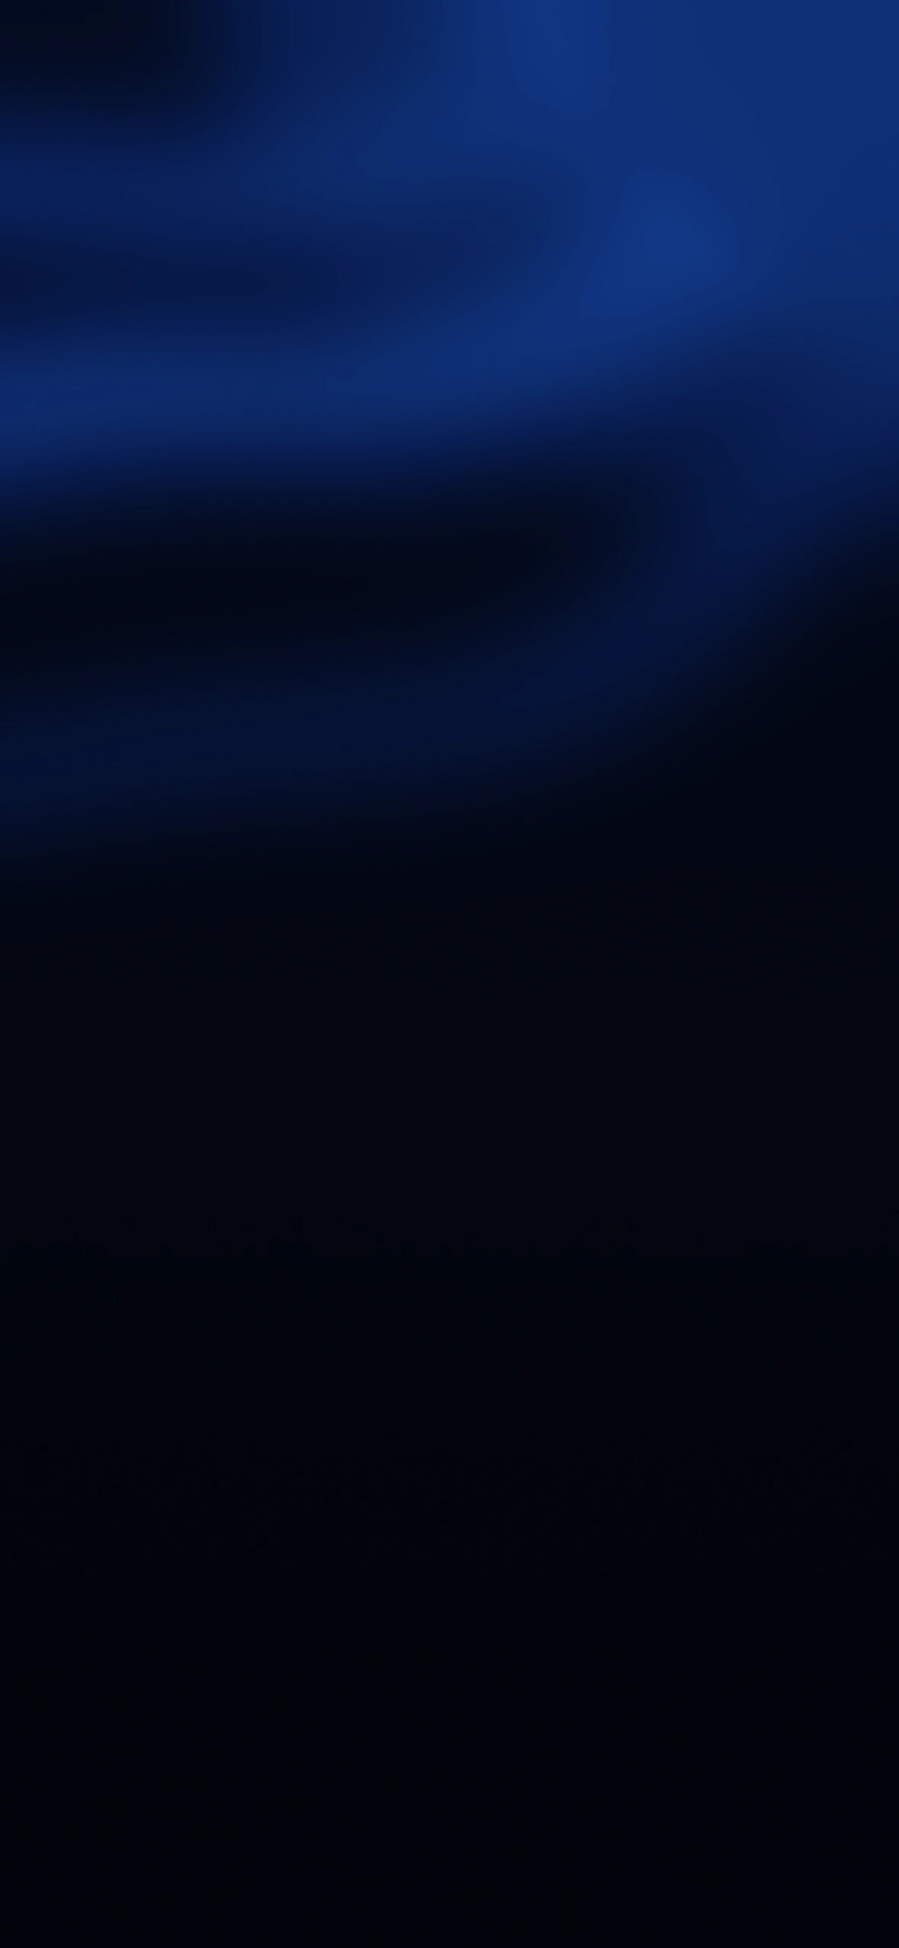
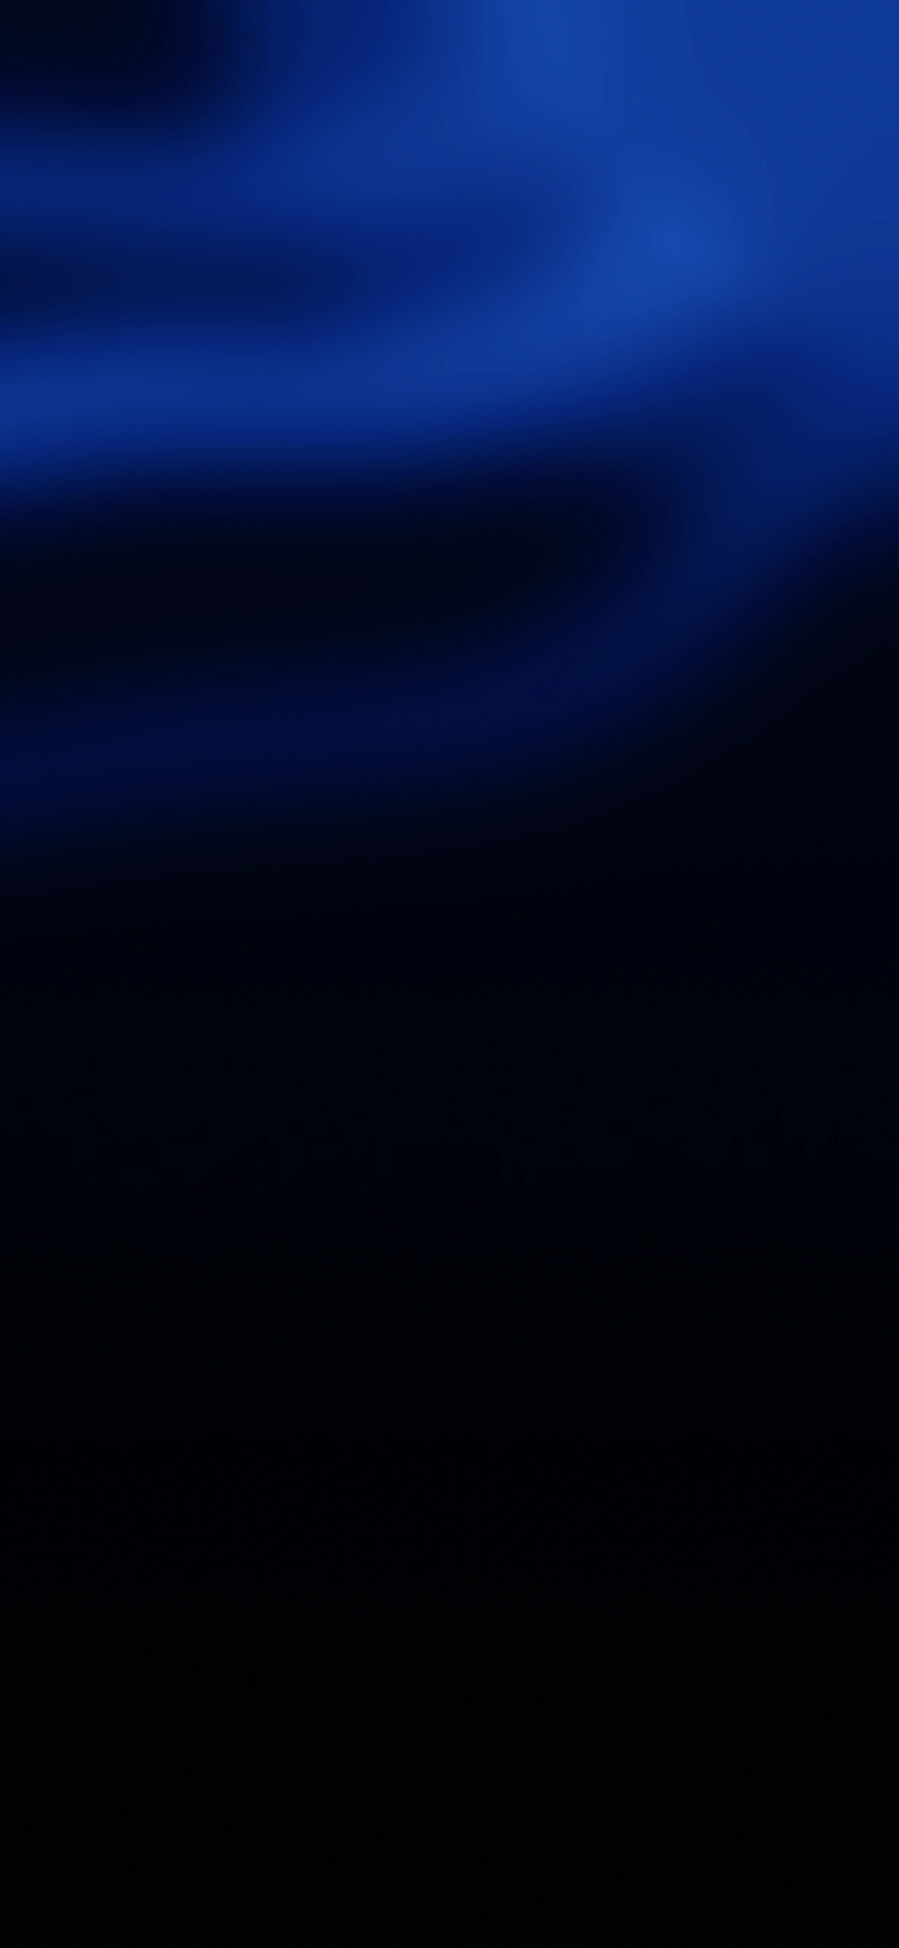
Moons: Sapphire Blue Moon, ladder picks baked; lab skies drawn in true colour
- Blue Moon recoloured to the Sapphire take (deeper navy sky, jewel-blue moon), re-baked with its icon.
- Ladder and rare list (Blue Moon only) from the moon studio baked into the app.
- Moon lab: a Blue Moon set of five takes in the test moons, ?set= opens one set, and skies and orbs copy
  out with readPixels (drawImage swapped red and blue on Linux Chrome, turning blue skies orange).
- Pending UI polish across tabs, strip page, week dots, moons cover and You.

Changed region(s): [[0.0, 0.0, 1.0, 0.2473]]

diff --git a/src/features/you/loc-profile.tsx b/src/features/you/loc-profile.tsx
@@ -1,4 +1,4 @@
-import { useCallback, useEffect, useMemo, useRef, useState } from 'react';
+import { useMemo } from 'react';
 import { Pressable, StyleSheet, View } from 'react-native';
 import { SymbolView } from 'expo-symbols';
 
@@ -7,7 +7,6 @@ import { Text } from '@/components/text';
 import * as haptic from '@/lib/haptics';
 import { Nocturne, NUMBER_FONT, Space, Type } from '@/theme';
 
-import { LocBubble } from '@/features/home/loc-bubble';
 import LocStage from '@/features/home/loc-stage';
 import { morningsLabel } from '@/features/home/week';
 
@@ -17,50 +16,16 @@ const CANVAS = Math.round(SIZE * 1.2);
 /** The circle's inside height: his ears get the room above him. */
 const LOC_H = SIZE - 8;
 
-/** Where his bubble's tail lands, up from the circle's bottom: just over his ears. */
-const BUBBLE_AT = Math.round(SIZE * 0.68);
-
 /** Home's mornings pill's height. */
 const PILL = 36;
-
-/** His one line here, the best of Home's poke lines (loc-lines.ts). */
-const LINE = 'There’s a reason I’m not allowed at airports.';
-
-/** How long a line stays up, as on Home. */
-const LINE_MS = 3200;
 
 /**
  * The top of the You tab, like CapWords' profile (user reference, 2026-10-14): Loc as the
  * profile picture, the real Loc from Home (loc-stage.tsx) peeking up from the circle's bottom,
- * and your mornings in Home's pill under him. He says `LINE` when the tab opens and when he's poked; it fades like his lines on Home. A long press on the
- * pill opens beta diagnostics.
+ * and your mornings in Home's pill under him. He doesn't talk here: no lines in Settings (user,
+ * 2026-11-02). A poke still gets his own reaction. A long press on the pill opens beta diagnostics.
  */
-export function LocProfile({ mornings, onLongPress, sayAfter = 0 }: { mornings: number; onLongPress: () => void; sayAfter?: number }) {
-  const [said, setSaid] = useState<number | null>(sayAfter ? null : 0);
-  // On a page that slides up (Settings), he speaks once he's peeked up (his "hello"), not mid-slide;
-  // `sayAfter` is only the fallback if he never says it.
-  const spoke = useRef(!sayAfter);
-  const speak = useCallback(() => {
-    if (spoke.current) return;
-    spoke.current = true;
-    setSaid(0);
-  }, []);
-  useEffect(() => {
-    if (!sayAfter) return;
-    const t = setTimeout(speak, sayAfter);
-    return () => clearTimeout(t);
-  }, [sayAfter, speak]);
-  useEffect(() => {
-    if (said === null) return;
-    const t = setTimeout(() => setSaid(null), LINE_MS);
-    return () => clearTimeout(t);
-  }, [said]);
-  const again = () => setSaid((n) => (n ?? 0) + 1000);
-  // A poke on him (handled in his webview) says it again; hiding doesn't.
-  const onCue = useCallback((cue: 'poke' | 'angry' | 'hello' | 'hide' | 'ultra') => {
-    if (cue === 'poke' || cue === 'angry') setSaid((n) => (n ?? 0) + 1000);
-    if (cue === 'hello') speak();
-  }, [speak]);
+export function LocProfile({ mornings, onLongPress }: { mornings: number; onLongPress: () => void }) {
   const dom = useMemo(
     () => ({
       style: { width: CANVAS, height: LOC_H, backgroundColor: 'transparent' },
@@ -73,23 +38,15 @@ export function LocProfile({ mornings, onLongPress, sayAfter = 0 }: { mornings: 
   return (
     <View style={styles.wrap}>
       <Pressable
-        onPress={() => {
-          haptic.tap();
-          again();
-        }}
-        accessibilityRole="button"
-        accessibilityLabel={`Loc says: ${LINE}`}
-        accessibilityHint="Says it again"
+        onPress={() => haptic.tap()}
+        accessibilityRole="image"
+        accessibilityLabel="Loc"
         style={styles.avatar}
       >
         <View style={[styles.loc, { width: CANVAS, height: LOC_H }]}>
-          <LocStage mood="awake" share={0.9} present onCue={onCue} dom={dom} />
+          <LocStage mood="awake" share={0.9} present dom={dom} />
         </View>
       </Pressable>
-      {/* Floats over the circle's empty top and the space above it, so it never moves the page. */}
-      <View style={styles.speech} pointerEvents="box-none">
-        {said !== null ? <LocBubble key={said} line={LINE} onDismiss={() => setSaid(null)} /> : null}
-      </View>
       <Pressable
         onLongPress={onLongPress}
         delayLongPress={800}
@@ -106,10 +63,7 @@ export function LocProfile({ mornings, onLongPress, sayAfter = 0 }: { mornings: 
 }
 
 const styles = StyleSheet.create({
-  // A little room up top, so a two-line bubble clears the status bar.
   wrap: { alignItems: 'center', paddingTop: Space.l },
-  // Its tail's tip is the bottom edge, placed just over his head.
-  speech: { position: 'absolute', left: 0, right: 0, bottom: PILL + Space.l + BUBBLE_AT, alignItems: 'center' },
   // A light ring round a frosted circle, like the photo's white border. No shadow, no glow.
   avatar: {
     width: SIZE,

diff --git a/src/features/moons/moon-data.ts b/src/features/moons/moon-data.ts
@@ -1,7 +1,7 @@
 // Generated by tools/moon-lab/bake.py from tools/moon-lab/moons.json (the moon studio, `npm run moon-studio`). Do not edit by hand.
 import type { MoonDef } from './moon-types';
 
-export const LADDER: (string | null)[] = ["dawn", "harvest", "twilight", "full", "ember", "matcha", "blood", "deepsea", "prism", "eclipse", "bluehour", "strawberry", "micromoon"];
+export const LADDER: (string | null)[] = ["deepsea", "harvest", "full", "twilight", "ember", "noir", "blood", "lagoon", "prism", "eclipse", "bluehour", "strawberry", "micromoon"];
 
 export const MOONS: MoonDef[] = [
   { "id": "moonlight", "name": "Moonlight", "kind": "today", "tag": "you start with this", "glow": "#7090D8", "glowOpacity": 1, "scale": 1, "cx": 0.5, "orb": ["#040A1F", "#123C8C", "#5E9BEA", "#E9F3FF"], "skyColors": ["#05060A", "#1C2A55", "#2C3F78", "#2C3F78"] },
@@ -10,7 +10,7 @@ export const MOONS: MoonDef[] = [
   { "id": "supermoon", "name": "Supermoon", "kind": "real", "tag": "closest to Earth", "glow": "#D8CDBE", "glowOpacity": 1, "scale": 1.25, "cx": 0.5, "orb": ["#0E0D0B", "#4E4840", "#D8CDBE", "#FFFCF6"], "skyColors": ["#050505", "#1F1C19", "#4E4840", "#4E4840"], sky: require('@/assets/moons/supermoon-sky.webp'), moon: require('@/assets/moons/supermoon-moon.webp') },
   { "id": "micromoon", "name": "Micromoon", "kind": "real", "tag": "farthest from Earth", "glow": "#8E9AB4", "glowOpacity": 0.6, "scale": 0.72, "cx": 0.5, "orb": ["#04070D", "#1E2840", "#8E9AB4", "#F2F4F6"], "skyColors": ["#020306", "#0A0F1C", "#1E2840", "#1E2840"], sky: require('@/assets/moons/micromoon-sky.webp'), moon: require('@/assets/moons/micromoon-moon.webp') },
   { "id": "blood", "name": "Blood Moon", "kind": "real", "tag": "total lunar eclipse", "glow": "#B3342C", "glowOpacity": 1, "scale": 1, "cx": 0.5, "orb": ["#110001", "#3A0608", "#B3342C", "#D89891"], "skyColors": ["#050203", "#260002", "#3A0608", "#3A0608"], sky: require('@/assets/moons/blood-sky.webp'), moon: require('@/assets/moons/blood-moon.webp') },
-  { "id": "bluemoon", "name": "Blue Moon", "kind": "real", "tag": "once in a blue moon", "glow": "#2F6BEA", "glowOpacity": 1, "scale": 1, "cx": 0.5, "orb": ["#030C21", "#123887", "#2F6BEA", "#A5BEEE"], "skyColors": ["#020309", "#071A4A", "#123887", "#123887"], sky: require('@/assets/moons/bluemoon-sky.webp'), moon: require('@/assets/moons/bluemoon-moon.webp') },
+  { "id": "bluemoon", "name": "Blue Moon", "kind": "real", "tag": "once in a blue moon", "glow": "#4D81EB", "glowOpacity": 1, "scale": 1, "cx": 0.5, "orb": ["#01061B", "#07277D", "#4D81EB", "#A4C0F5"], "skyColors": ["#000103", "#020D3B", "#07277D", "#1649AE"], sky: require('@/assets/moons/bluemoon-sky.webp'), moon: require('@/assets/moons/bluemoon-moon.webp') },
   { "id": "snow", "name": "Snow Moon", "kind": "real", "tag": "February", "glow": "#C9CED6", "glowOpacity": 1, "scale": 1, "cx": 0.5, "orb": ["#0E0E11", "#4C505A", "#C9CED6", "#FAFBFC"], "skyColors": ["#050506", "#1E2026", "#4C505A", "#4C505A"], sky: require('@/assets/moons/snow-sky.webp'), moon: require('@/assets/moons/snow-moon.webp') },
   { "id": "strawberry", "name": "Strawberry Moon", "kind": "real", "tag": "June", "glow": "#E07CA6", "glowOpacity": 1, "scale": 1, "cx": 0.5, "orb": ["#13060D", "#6C2B4A", "#E07CA6", "#FBDEE8"], "skyColors": ["#060305", "#2B0E1D", "#6C2B4A", "#6C2B4A"], sky: require('@/assets/moons/strawberry-sky.webp'), moon: require('@/assets/moons/strawberry-moon.webp') },
   { "id": "flower", "name": "Flower Moon", "kind": "real", "tag": "May", "glow": "#9D8DE2", "glowOpacity": 1, "scale": 1, "cx": 0.5, "orb": ["#0D0A18", "#4C3F84", "#9D8DE2", "#EEE8FC"], "skyColors": ["#050409", "#1D1636", "#4C3F84", "#4C3F84"], sky: require('@/assets/moons/flower-sky.webp'), moon: require('@/assets/moons/flower-moon.webp') },

diff --git a/tools/moon-lab/index.html b/tools/moon-lab/index.html
@@ -432,6 +432,26 @@ function addSkies(root) {
     skies.push({ canvas, ctx: canvas.getContext('2d'), colours: skyColours(m) });
   });
 }
+/**
+ * Copies a shader's frame into a 2D canvas (same as copyOut in tools/moon-studio/render.js). Not with drawImage:
+ * on the user's Linux Chrome drawImage of a WebGL canvas swaps red and blue, so blue skies came out orange
+ * (2026-11-02). readPixels is always RGBA, bottom row first, premultiplied: flip it, and unpremultiply for alpha.
+ */
+function copyOut(g, ctx, alpha) {
+  const { gl, canvas } = g, w = canvas.width, h = canvas.height;
+  if (!g.buf || g.buf.length !== w * h * 4) { g.buf = new Uint8Array(w * h * 4); g.img = new ImageData(w, h); }
+  gl.readPixels(0, 0, w, h, gl.RGBA, gl.UNSIGNED_BYTE, g.buf);
+  const src = g.buf, dst = g.img.data, row = w * 4;
+  for (let y = 0; y < h; y++) {
+    const from = (h - 1 - y) * row;
+    if (!alpha) { dst.set(src.subarray(from, from + row), y * row); continue; }
+    for (let i = 0, j = y * row; i < row; i += 4, j += 4) {
+      const a = src[from + i + 3], k = a ? 255 / a : 0;
+      dst[j] = src[from + i] * k; dst[j + 1] = src[from + i + 1] * k; dst[j + 2] = src[from + i + 2] * k; dst[j + 3] = a;
+    }
+  }
+  ctx.putImageData(g.img, 0, 0);
+}
 let lastSky = 0;
 function drawSkies(ms) {
   // 30 a second, as the app's sky will run.
@@ -444,7 +464,7 @@ function drawSkies(ms) {
     if (!s.canvas._visible) continue;
     s.colours.forEach((c, i) => gl.uniform3fv(C[i], c));
     gl.drawArrays(gl.TRIANGLES, 0, 3);
-    s.ctx.drawImage(canvas, 0, 0);
+    copyOut(skyGL, s.ctx, false);
   }
 }
 function tick(ms) {
@@ -458,8 +478,7 @@ function tick(ms) {
       o.colours.forEach((c, i) => gl.uniform3fv(C[i], c));
       gl.clearColor(0, 0, 0, 0); gl.clear(gl.COLOR_BUFFER_BIT);
       gl.drawArrays(gl.TRIANGLES, 0, 3);
-      o.ctx.clearRect(0, 0, ORB_PX, ORB_PX);
-      o.ctx.drawImage(canvas, 0, 0);
+      copyOut(shared, o.ctx, true);
     }
   }
   requestAnimationFrame(tick);
@@ -645,7 +664,8 @@ function testCard(m) {
   return fig;
 }
 
-let testSet = 'all';
+// ?show=test&set=bluemoon opens on one test set.
+let testSet = new URLSearchParams(location.search).get('set') ?? 'all';
 function renderTests() {
   if (!TEST.length) return;
   const h = document.createElement('h2');
@@ -654,7 +674,7 @@ function renderTests() {
   const bar = document.createElement('div');
   bar.className = 'bar';
   bar.innerHTML = `<div><div class="seg-label">Set</div><div class="seg" id="test-set" style="flex-wrap:wrap">
-    <button data-v="all" class="on">All</button><button data-v="liked">♥ Liked</button>${TEST_SETS.map((x) => `<button data-v="${x.key}">${x.title}</button>`).join('')}</div></div>`;
+    <button data-v="all"${testSet === 'all' ? ' class="on"' : ''}>All</button><button data-v="liked"${testSet === 'liked' ? ' class="on"' : ''}>♥ Liked</button>${TEST_SETS.map((x) => `<button data-v="${x.key}"${testSet === x.key ? ' class="on"' : ''}>${x.title}</button>`).join('')}</div></div>`;
   const grid = document.createElement('div');
   grid.className = 'grid test-grid';
   TEST.forEach((m) => grid.appendChild(testCard(m)));

diff --git a/src/components/strip-page.tsx b/src/components/strip-page.tsx
@@ -16,7 +16,7 @@ import { useSafeAreaInsets } from 'react-native-safe-area-context';
 import { PANEL_RADIUS, tabStripHeight } from '@/components/app-tabs';
 import { HOME_RISE_MS, MOON_GONE, MOON_SHOWS_FROM, moonSink } from '@/components/night-sky';
 import { homeEntrance, HIDE_FADE_MS } from '@/features/home/entrance';
-import { locAway, tabsShown } from '@/features/moons/moons-cover';
+import { locAway, tabPagesShown, tabsShown } from '@/features/moons/moons-cover';
 
 /**
  * Two steps, one after the other (user, 2026-11-01: "I want to see everything fade out before it
@@ -31,7 +31,8 @@ const SHOW_AT = UP_AT + 360;
 const SHOW_MS = 260;
 /** Going, backwards: the contents go, the page slides down into the strip, then the tabs fade back. */
 const HIDE_MS = 160;
-const DOWN_MS = 460;
+// A touch slower than the way up: at 460 the drop felt abrupt (user, 2026-11-02).
+const DOWN_MS = 560;
 const BACK_MS = 320;
 /** The moon drops out of sight with the fade, and rises back with the tabs once the page has gone. */
 const MOON_DROP_MS = FADE_MS;
@@ -75,6 +76,7 @@ export function StripPage({ background, children }: { background: string; childr
       // any other tab under the page fade here.
       homeEntrance.fadeOut();
       tabsShown.set(reduced ? 0 : withTiming(0, { duration: FADE_MS }));
+      tabPagesShown.set(reduced ? 0 : withTiming(0, { duration: FADE_MS }));
       if (was < MOON_SHOWS_FROM) moonSink.set(reduced ? MOON_GONE : withTiming(MOON_GONE, { duration: MOON_DROP_MS, easing: Easing.in(Easing.cubic) }));
     }
     if (!reduced) {
@@ -89,6 +91,7 @@ export function StripPage({ background, children }: { background: string; childr
       if (leaving.current || nested.current) return;
       homeEntrance.play();
       tabsShown.set(1);
+      tabPagesShown.set(1);
       locAway.set(false);
       if (was < MOON_SHOWS_FROM) moonSink.set(was);
     };
@@ -103,6 +106,7 @@ export function StripPage({ background, children }: { background: string; childr
       if (cover) {
         homeEntrance.play();
         tabsShown.set(1);
+        tabPagesShown.set(1);
         locAway.set(false);
         if (was < MOON_SHOWS_FROM) moonSink.set(was);
       }
@@ -118,6 +122,8 @@ export function StripPage({ background, children }: { background: string; childr
       ),
     );
     if (!cover) return;
+    // The tab under it is whole again before the page starts down: it's revealed, not faded in.
+    tabPagesShown.set(1);
     // Only once the page is all the way down does anything come back: the tabs fade in, the moon
     // (a new one, if one was picked) rises, and Loc pops up (user, 2026-11-01).
     const home = HIDE_MS / 2 + DOWN_MS;

diff --git a/src/components/app-tabs.tsx b/src/components/app-tabs.tsx
@@ -23,7 +23,7 @@ import { MoonOrbView, isMoonOrbViewAvailable } from 'moon-orb';
 
 import { MoonWater } from '@/components/moon-water';
 import { useMoon } from '@/features/moons/moon-theme';
-import { tabsShown } from '@/features/moons/moons-cover';
+import { tabPagesShown, tabsShown } from '@/features/moons/moons-cover';
 import { Text } from '@/components/text';
 import { exitTestMorning, useWakePreview } from '@/features/dev/wake-lab/wake-preview';
 import { Knockable, useNavKnock } from '@/components/nav-knock';
@@ -117,8 +117,8 @@ function TabScene({ children }: { children: ReactNode }) {
   const style = useAnimatedStyle(() => ({
     // Never quite 0: at opacity 0 iOS stops drawing liquid glass in the page (expo-glass-effect's
     // known issue), and it stayed flat after fading back in. 1% is invisible.
-    // `tabsShown`: faded for the moons page, which grows up out of the strip over it.
-    opacity: 0.01 + 0.99 * shown.value * (ownFade ? 1 : tabsShown.value),
+    // `tabPagesShown`: faded for a strip page (the moons, Settings), which grows up out of the strip over it.
+    opacity: 0.01 + 0.99 * shown.value * (ownFade ? 1 : tabPagesShown.value),
     transform: [
       // A hidden page also moves far off the panel: at 1% it still showed faintly behind the
       // shown one, glass cards most of all (web keeps hidden tabs mounted and in place).

diff --git a/src/features/you/you-screen.tsx b/src/features/you/you-screen.tsx
@@ -188,9 +188,6 @@ function rate() {
   else StoreReview.requestReview().catch(() => {});
 }
 
-/** Loc's line waits for him to peek up once the page has landed; this is only the fallback. */
-const SAY_AFTER_MS = 4000;
-
 /** Settings' background: pure black, like the strip it grows out of (user, 2026-11-02). */
 export const SETTINGS_BG = '#000000';
 
@@ -299,7 +296,7 @@ export function YouScreen({ onClose }: { onClose: () => void }) {
       {/* Loc as the profile picture and your mornings under him, like CapWords' profile (user
           reference, 2026-10-14). Long press the mornings for beta diagnostics: what iOS ran
           overnight, to paste into a bug report. */}
-      <LocProfile mornings={mornings} onLongPress={() => router.push('/diagnostics')} sayAfter={SAY_AFTER_MS} />
+      <LocProfile mornings={mornings} onLongPress={() => router.push('/diagnostics')} />
 
       {/* Flat rows on black, a hairline between groups, as in Brilliant's settings (user reference,
           2026-11-02): no cards and no headings. */}

diff --git a/src/features/moons/moons-cover.ts b/src/features/moons/moons-cover.ts
@@ -10,6 +10,14 @@ import { makeMutable } from 'react-native-reanimated';
 export const tabsShown = makeMutable(1);
 
 /**
+ * The other tabs' pages (not Home, which fades its own pieces): faded with `tabsShown` on the way
+ * in, but back at full at once while the page still covers them, so the page drops away off a
+ * finished page. Fading them back in as a whole left them half see-through, then popping in, on
+ * Routine and Apps (user, 2026-11-02), as Home's did before it got its own fade.
+ */
+export const tabPagesShown = makeMutable(1);
+
+/**
  * Loc pops down (rather than running off along the edge) while the moons page is up, and pops
  * back up when it goes: `quick` stays on a moment after `away` ends, for his way back.
  */

diff --git a/src/features/home/week-dots-native.tsx b/src/features/home/week-dots-native.tsx
@@ -25,7 +25,9 @@ const DOT = 32;
 export function WeekDots({ days, reduced, modifiers }: { days: WeekDay[]; reduced: boolean; modifiers?: ModifierConfig[] }) {
   // The mist takes the worn moon's colours, as the Sleep orb does; Moonlight keeps the mist's own tuned blues.
   const moon = useMoon();
-  const mist = moon.id === DEFAULT_MOON.id ? undefined : moon.orb;
+  // Never undefined: a prop that goes missing isn't sent to the native view, so switching back to
+  // Moonlight left the last moon's mist in the dots (user, 2026-11-02). An empty list is Moonlight.
+  const mist: string[] = moon.id === DEFAULT_MOON.id ? [] : [...moon.orb];
   return (
     <HStack modifiers={modifiers}>
       {days.flatMap((day, i) => [

diff --git a/src/features/moons/moon-ladder.ts b/src/features/moons/moon-ladder.ts
@@ -99,7 +99,7 @@ export function secretsMet(f: SecretFacts): SecretRule[] {
  * bake (tools/moon-lab/bake.py, from moons.json's `rare`); the first rolls on the morning's key alone (as the
  * single rare moon always did), the rest on the key and their id.
  */
-export const RARE_MOONS: readonly string[] = ['bluemoon', 'ringed'];
+export const RARE_MOONS: readonly string[] = ['bluemoon'];
 /** Whether an id is one of the rare moons. */
 export const isRare = (id: string) => RARE_MOONS.includes(id);
 

diff --git a/tools/moon-lab/make-test-moons.py b/tools/moon-lab/make-test-moons.py
@@ -50,6 +50,7 @@ def wash(*hues, l=0.82, c=0.13):
 
 
 SETS = [
+    ('bluemoon', 'Blue Moon', 'five takes on the rare Blue Moon'),
     ('quiet', 'Quiet', 'one colour, held back'),
     ('vivid', 'Vivid', 'one colour, turned all the way up'),
     ('pairs', 'Pairs', 'a moon against its opposite sky'),
@@ -67,6 +68,29 @@ def mono(set_, name, note, h, v, hor_l=0.6, moon_v=None, light_l=0.96):
     """One hue all the way through: sky, moon and halo."""
     mv = v if moon_v is None else moon_v
     add(set_, name, note, sky(h, h, h, v, hor_l), moon(h, h, mv, light_l=light_l), glow(h, mv))
+
+
+# ——— Blue Moon: five takes on the rare moon (user, 2026-11-02). The real one is a blue disc, not a white
+# moon in a blue sky (that is Blue Hour), so every take keeps the disc itself blue. ———
+def bm(name, note, sky_, moon_, glow_h, gv=1.0):
+    add('bluemoon', name, note, sky_, moon_, oklch(0.62, 0.17 * gv, glow_h), glowOpacity=1)
+
+
+bm('Blue Sapphire', 'The current Blue Moon, deeper and richer: a jewel on an inky navy night.',
+   [oklch(0.06, 0.02, 265), oklch(0.19, 0.09, 265), oklch(0.32, 0.15, 264), oklch(0.44, 0.17, 262)],
+   [oklch(0.26, 0.13, 265), oklch(0.62, 0.17, 262)], 263)
+bm('Blue Cobalt', 'Turned all the way up: an electric blue moon on a near-black sky with one bright band.',
+   [oklch(0.05, 0.015, 262), oklch(0.13, 0.05, 262), oklch(0.30, 0.16, 260), oklch(0.52, 0.21, 258)],
+   [oklch(0.38, 0.2, 260), oklch(0.74, 0.15, 252)], 258, 1.2)
+bm('Blue Cornflower', 'Softer and lighter: a powder-blue moon over navy fading to cornflower.',
+   [oklch(0.07, 0.02, 262), oklch(0.22, 0.07, 262), oklch(0.42, 0.11, 260), oklch(0.62, 0.11, 258)],
+   [oklch(0.52, 0.12, 258), oklch(0.86, 0.07, 255)], 257, 0.7)
+bm('Blue Cerulean', 'Leaning toward cyan: a clear sky-blue moon, the night turning teal-blue at the bottom.',
+   [oklch(0.06, 0.02, 250), oklch(0.20, 0.07, 252), oklch(0.38, 0.11, 238), oklch(0.56, 0.12, 225)],
+   [oklch(0.42, 0.13, 240), oklch(0.80, 0.11, 230)], 232)
+bm('Blue Ultramarine', 'Leaning toward violet: a royal-blue moon on indigo going violet at the horizon.',
+   [oklch(0.06, 0.025, 278), oklch(0.19, 0.09, 276), oklch(0.34, 0.15, 272), oklch(0.48, 0.17, 285)],
+   [oklch(0.30, 0.16, 270), oklch(0.66, 0.17, 268)], 270)
 
 
 # ——— Quiet: one hue, low chroma. Restraint reads as expensive. ———
@@ -201,11 +225,11 @@ twin('Lovers', 'A pink moon and a small violet one, on a pink-to-violet night.',
 twin('Tide', 'An aqua moon and a little gold one, over the sea.', sky(232, 200, 172), 182, 75, (0.78, 0.68), 0.18)
 twin('Lemon & Lime', 'A lemon moon and a small lime one, on a green-gold night.', sky(150, 122, 95), 100, 135, (0.22, 0.67), 0.22)
 
-assert len(MOONS) == 100, len(MOONS)
+assert len(MOONS) == 105, len(MOONS)
 for m in MOONS:
     m['id'] = 'test-' + re.sub(r'[^a-z0-9]+', '-', m['name'].lower().replace('é', 'e')).strip('-')
     m['kind'] = 'test'
     m['tag'] = next(t for k, t, _ in SETS if k == m['set']).lower()
-assert len({m['id'] for m in MOONS}) == 100
+assert len({m['id'] for m in MOONS}) == 105
 OUT.write_text(json.dumps({'sets': [{'key': k, 'title': t, 'sub': s} for k, t, s in SETS], 'moons': MOONS}, indent=1, ensure_ascii=False) + '\n')
 print(len(MOONS), '->', OUT)
